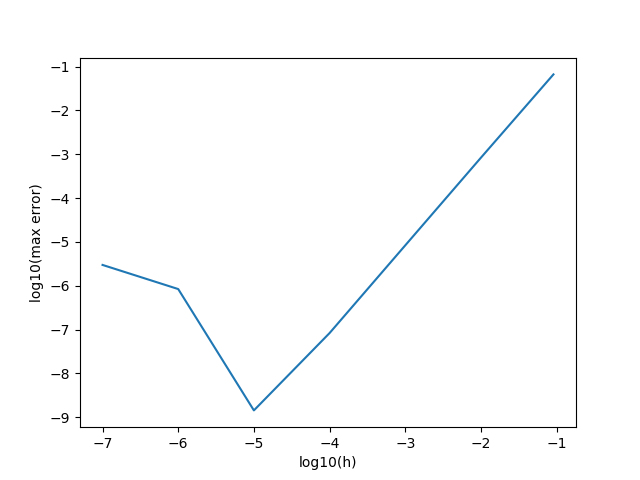
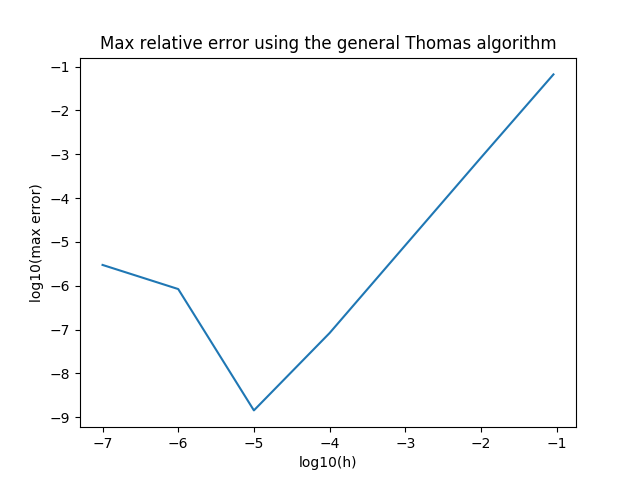
update

Changed region(s): [[0.1562, 0.0625, 0.875, 0.125]]

diff --git a/projects/project1/codes/find_max_error.py b/projects/project1/codes/find_max_error.py
@@ -38,6 +38,19 @@ if which_algorithm == "special_algorithm":
                     errors.append(float(number))
         max_error.append(max(errors))
 
+if which_algorithm == "LU":
+    for n in number_of_gridpoints:
+        filename_errors = "errors_n_" + str(n) + "_LU.txt"
+        errors = []
+        with open(filename_errors, "r") as infile:
+            #timeused = float(infile.readline())   #Time used to run the c++ program.
+            lines = infile.readlines()
+            for line in lines:
+                numbers = line.split()
+                for number in numbers:
+                    errors.append(float(number))
+        max_error.append(max(errors))
+
 
 #If the algorithm used is general Thomas
 if which_algorithm == "general_algorithm":
@@ -53,10 +66,12 @@ if which_algorithm == "general_algorithm":
     h = [1/(float(i) + 1) for i in number_of_gridpoints]
     log_h = [np.log10(i) for i in h]
 
+    title = "Max relative error using the general Thomas algorithm"
     figurename = "max_error_general.png"
     plt.plot(log_h, max_error)
     plt.xlabel("log10(h)")
     plt.ylabel("log10(max error)")
+    plt.title(title)
     plt.savefig(figurename)
     plot_directory = "~/Documents/skole/comphys/projects/project1/codes/results/general_algorithm/plots"
     system("mv " + figurename + " " + plot_directory)
@@ -77,11 +92,38 @@ if which_algorithm == "special_algorithm":
     h = [1/(float(i) + 1) for i in number_of_gridpoints]
     log_h = [np.log10(i) for i in h]
 
+    title = "Max relative error using the specialized Thomas algorithm"
     figurename = "max_error_special.png"
     plt.plot(log_h, max_error)
     plt.xlabel("log10(h)")
     plt.ylabel("log10(max error)")
+    plt.title(title)
     plt.savefig(figurename)
     plot_directory = "~/Documents/skole/comphys/projects/project1/codes/results/special_algorithm/plots"
+    system("mv " + figurename + " " + plot_directory)
+    plt.close()
+
+#if the algorithm used is LU-Thomas
+if which_algorithm == "LU":
+    outfilename = "max_errors_LU.txt"
+    with open(outfilename, "w") as outfile:
+        outfile.write("n" + " " + "max-error" + "\n")
+        for i,e in zip(number_of_gridpoints, max_error):
+            outfile.write(str("%.1E" % i) + " " + str("%f" % e) + "\n")
+
+    table_directory = "~/Documents/skole/comphys/projects/project1/codes/results/LU/tables"
+    system("mv " + outfilename + " " + table_directory)
+
+    h = [1/(float(i) + 1) for i in number_of_gridpoints]
+    log_h = [np.log10(i) for i in h]
+
+    figurename = "max_error_LU.png"
+    title = "Max relative error using LU-decomposition with the Thomas algorithm"
+    plt.plot(log_h, max_error)
+    plt.xlabel("log10(h)")
+    plt.ylabel("log10(max error)")
+    plt.title(title)
+    plt.savefig(figurename)
+    plot_directory = "~/Documents/skole/comphys/projects/project1/codes/results/LU/plots"
     system("mv " + figurename + " " + plot_directory)
     plt.close()

diff --git a/projects/project1/codes/main.py b/projects/project1/codes/main.py
@@ -6,9 +6,8 @@ if algorithm == "general":
     which_algorithm = "general_algorithm"
 if algorithm == "special":
     which_algorithm = "special_algorithm"
-
-#which_algorithm = "special_algorithm"
-
+if algorithm == "lu":
+    which_algorithm = "LU"
 
 #Compile and execute program:
 print("Compiling code...")
@@ -32,6 +31,12 @@ for n in number_of_gridpoints:
         filename_time = "timeused_" + str(n) + "_special.txt"
         print("Computing for n = " + str(n))
         system("./project1.exe" + " " + str(n) + " " + filename_solution + " " + filename_errors + " " + filename_time + " " + which_algorithm)
+    if which_algorithm == "LU":
+        filename_solution = "solution_part_b_n_" + str(n) + "_LU.txt"
+        filename_errors = "errors_n_" + str(n) + "_LU.txt"
+        filename_time = "timeused_" + str(n) + "_LU.txt"
+        print("Computing for n = " + str(n))
+        system("./project1.exe" + " " + str(n) + " " + filename_solution + " " + filename_errors + " " + filename_time + " " + which_algorithm)
 
 print("Computations are done, making plots...")
 
@@ -43,6 +48,10 @@ for n in number_of_gridpoints:
         print("Plotting for n = " + str(n))
     if which_algorithm == "special_algorithm":
         filename_solution = "solution_part_b_n_" + str(n) + "_special.txt"
+        system("python3" + " " + "make_plot.py" +  " " + filename_solution + " " + which_algorithm)
+        print("Plotting for n = " + str(n))
+    if which_algorithm == "LU":
+        filename_solution = "solution_part_b_n_" + str(n) + "_LU.txt"
         system("python3" + " " + "make_plot.py" +  " " + filename_solution + " " + which_algorithm)
         print("Plotting for n = " + str(n))
 
@@ -66,6 +75,11 @@ for n in number_of_gridpoints:
         filename_solution = "solution_part_b_n_" + str(n) + "_special.txt"
         filename_errors = "errors_n_" + str(n) + "_special.txt"
         filename_time = "timeused_" + str(n) + "_special.txt"
+        system("rm" + " " + filename_solution + " " + filename_errors + " " + filename_time)
+    if which_algorithm == "LU":
+        filename_solution = "solution_part_b_n_" + str(n) + "_LU.txt"
+        filename_errors = "errors_n_" + str(n) + "_LU.txt"
+        filename_time = "timeused_" + str(n) + "_LU.txt"
         system("rm" + " " + filename_solution + " " + filename_errors + " " + filename_time)
 
 print("Done")

diff --git a/projects/project1/codes/create_benchmark_table.py b/projects/project1/codes/create_benchmark_table.py
@@ -1,0 +1,52 @@
+
+import os
+import sys
+import matplotlib.pyplot as plt
+import numpy as np
+N = int(sys.argv[1])
+
+general_directory = "results/general_algorithm/tables/"
+general_table = "n_vs_time_general.txt"
+
+special_directory = "results/special_algorithm/tables/"
+special_table = special_directory + "n_vs_time_special.txt"
+
+LU_directory = "results/LU/tables/"
+LU_table = LU_directory + "n_vs_time_LU.txt"
+
+general_time = []
+special_time = []
+LU_time = []
+number_of_gridpoints = [int(10**i) for i in range(1,N+1)]
+
+filepath = os.path.join(general_directory, general_table)
+infile = open(filepath)
+infile.readline()
+lines = infile.readlines()
+for line in lines:
+    numbers = line.split()
+    general_time.append(float(numbers[-1]))
+infile.close()
+
+with open(special_table, "r") as infile:
+    infile.readline()
+    lines = infile.readlines()
+    for line in lines:
+        numbers = line.split()
+        special_time.append(float(numbers[-1]))
+
+with open(LU_table, "r") as infile:
+    infile.readline()
+    lines = infile.readlines()
+    for line in lines:
+        numbers = line.split()
+        LU_time.append(float(numbers[-1]))
+
+outfilename = "n_vs_time_all_algorithms.txt"
+with open(outfilename, "w") as outfile:
+    outfile.write("n" + " " + "general" + " " + "special" + " " + "LU" + "\n")
+    for n, general, special, lu in zip(number_of_gridpoints, general_time, special_time, LU_time):
+        outfile.write(str("%.1E" % n) + " " + str("%f" % general) + " " +  str("%f" % special) + " " +  str("%f" % lu) + "\n")
+
+results_directory = "~/Documents/skole/comphys/projects/project1/codes/results/"
+os.system("mv" + " " + outfilename + " " + results_directory)

diff --git a/projects/project1/codes/project1.cpp b/projects/project1/codes/project1.cpp
@@ -46,7 +46,6 @@ int main(int argc, char* argv[]){
     b[i] = 2.0;
     c[i] = -1.0;
     double x = ((double) i + 1.0)*h;
-    //q[i] = f(i*h)*h*h;  //RHS of the matrix equation.
     f(x, h_squared, q[i]); //Call by reference to speed up execution.
     closed_form_solution(x, DE_solution[i]);
   }
@@ -57,6 +56,7 @@ int main(int argc, char* argv[]){
   //Main algorithm:
   string general_algorithm = "general_algorithm";
   string special_algorithm = "special_algorithm";
+  string LU_Thomas = "LU";
   if (which_algorithm == general_algorithm){
     Forward_substitution(a, b, c, q, n);    //Step 1: Forward substitution
     Back_substitution(v, b, c, q, n);       //Step 2: Back-substitution
@@ -66,23 +66,13 @@ int main(int argc, char* argv[]){
     SpecialThomas(q, v, n);
     cout << "Running special algorithm" << endl;
   }
+  if (which_algorithm == LU_Thomas){
+    cout << "Running LU-Thomas" << endl;
+    LU_decomposition(a,b,c,d,l,u,n);      //Step 1: LU-decomposition - A = LU
+    Forward_substitutionLU(y,q,l,n);      //Step 2: Forward-substitution - solves Ly = q
+    Back_substitutionLU(v,y,u,d,n);       //Step 3: Back-substitution - solves Uv = y
+  }
 
-
-
-  //Specialized algorithm
-  //SpecialThomas(q, v, n);
-
-  /*
-  //Thomas algorithm with LU-decomposition
-  //Step 1: LU-decomposition of A on the form A = LU.
-  LU_decomposition(a, b, c, d, l, u, n);
-
-  //Step 2: Forward substituion, solving Ly = q
-  Forward_substitutionLU(y, q, l, n);
-
-  //Step 3: Back-substitution, solving Uv = y
-  Back_substitutionLU(v, y, u, d, n);
-  */
 
   //Compute the time interval the main algorithm took to complete.
   finish = clock();     //Stops the clock

diff --git a/projects/project1/codes/create_timetable.py b/projects/project1/codes/create_timetable.py
@@ -18,6 +18,11 @@ for n in number_of_gridpoints:
         with open(filename_time, "r") as infile:
             time = float(infile.readline())
             time_used.append(time)
+    if which_algorithm == "LU":
+        filename_time = "timeused_" + str(n) + "_LU.txt"
+        with open(filename_time, "r") as infile:
+            time = float(infile.readline())
+            time_used.append(time)
 
 
 if which_algorithm == "general_algorithm":
@@ -34,3 +39,10 @@ if which_algorithm == "special_algorithm":
         for n, time in zip(number_of_gridpoints, time_used):
             outfile.write(str("%.1E" % n) + " " + str("%f" % time) + "\n")
     system("mv" + " " + filename + " " + "~/Documents/skole/comphys/projects/project1/codes/results/special_algorithm/tables")
+if which_algorithm == "LU":
+    filename = "n_vs_time_LU.txt"
+    with open(filename, "w") as outfile:
+        outfile.write("n" + " " + "time/s" + "\n")
+        for n, time in zip(number_of_gridpoints, time_used):
+            outfile.write(str("%.1E" % n) + " " + str("%f" % time) + "\n")
+    system("mv" + " " + filename + " " + "~/Documents/skole/comphys/projects/project1/codes/results/LU/tables")

diff --git a/projects/project1/codes/project1_LU.cpp b/projects/project1/codes/project1_LU.cpp
@@ -1,0 +1,51 @@
+#include <iostream>
+#include <cmath>
+#include <cstdlib>
+#include <fstream>
+#include <iomanip>
+#include "time.h"
+#include "functions.h"
+#include <armadillo>
+
+ofstream ofile_solution;
+
+int main(int argc, char* argv[]){
+  int n = atoi(argv[1]);
+  char *outfilename_solution, *outfile = argv[2];
+  double h = 1/((double) n + 1);
+  double hh = h*h;
+  mat A = mat(n,n);
+  mat L, U;
+  vec v, y;
+  vec q = vec(n);
+
+  for (int i = 0; i < n; i++){
+    if (i < n-1){
+    A(i,i) = 2.0;
+    A(i,i+1) = -1.0;
+    A(i+1,i) = -1.0;
+    }
+    else{
+      A(i,i) = 2.0;
+    }
+  }
+
+  //Fill the RHS
+  for (int i = 0; i < n; i++){
+    x = (double) (i+1)*h
+    f(x, hh, q(i));
+  }
+
+  //LU-decomposition, A = LU.
+  lu(L,U,A);
+
+
+  y = solve(L,q);     //First solve Ly = q
+  v = solve(U,y);     //Then solve Uv = y
+
+  ofile.open(outfilename_solution);
+  for (int i = 0; i < n; i++){
+    ofile << v(i) << endl;
+  }
+  ofile.close();
+}

diff --git a/projects/project1/codes/make_plot.py b/projects/project1/codes/make_plot.py
@@ -39,4 +39,6 @@ if which_algorithm == "general_algorithm":
     system("mv " + figurename + " " + "~/Documents/skole/comphys/projects/project1/codes/results/general_algorithm/plots")
 if which_algorithm == "special_algorithm":
     system("mv " + figurename + " " + "~/Documents/skole/comphys/projects/project1/codes/results/special_algorithm/plots")
+if which_algorithm == "LU":
+    system("mv " + figurename + " " + "~/Documents/skole/comphys/projects/project1/codes/results/LU/plots")
 plt.close()

diff --git a/projects/project1/codes/mainLU.py b/projects/project1/codes/mainLU.py
@@ -1,0 +1,14 @@
+from os import system
+import sys
+
+number_of_gridpoints = [int(10**(i)) for i in range(1,N+1)]
+
+print("Compiling program...")
+system("c++ -O3 -c project1_LU.cpp functions.cpp -larmadillo")
+system("c++ -O3 -o project1_LU.exe project1_LU.o functions.o -larmadillo")
+
+
+print("Compilation done, executing")
+for n in number_of_gridpoints:
+    print("computing for n = " + str(n))
+    system("./project1_LU.exe" + " " + str(n))
